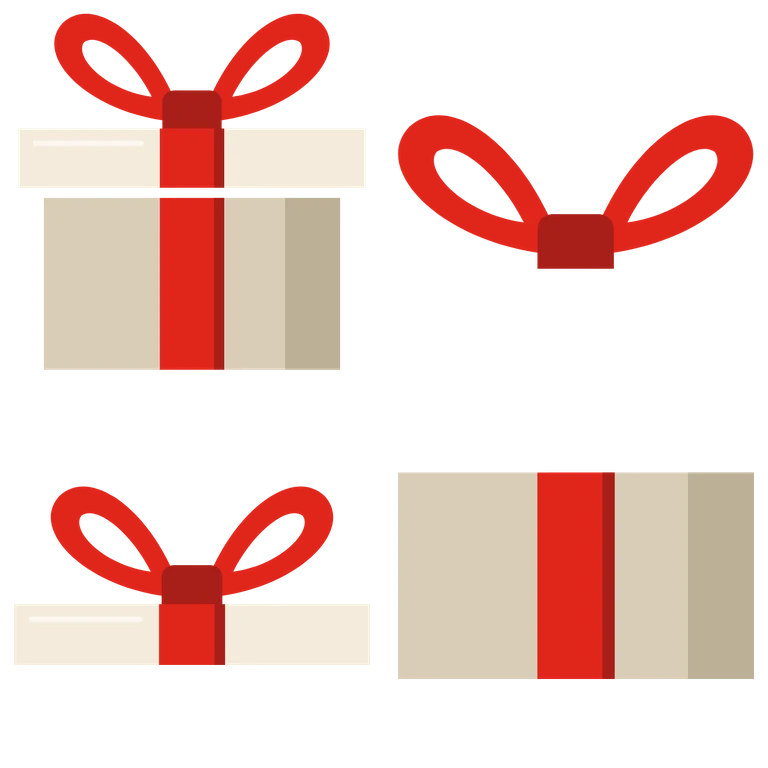
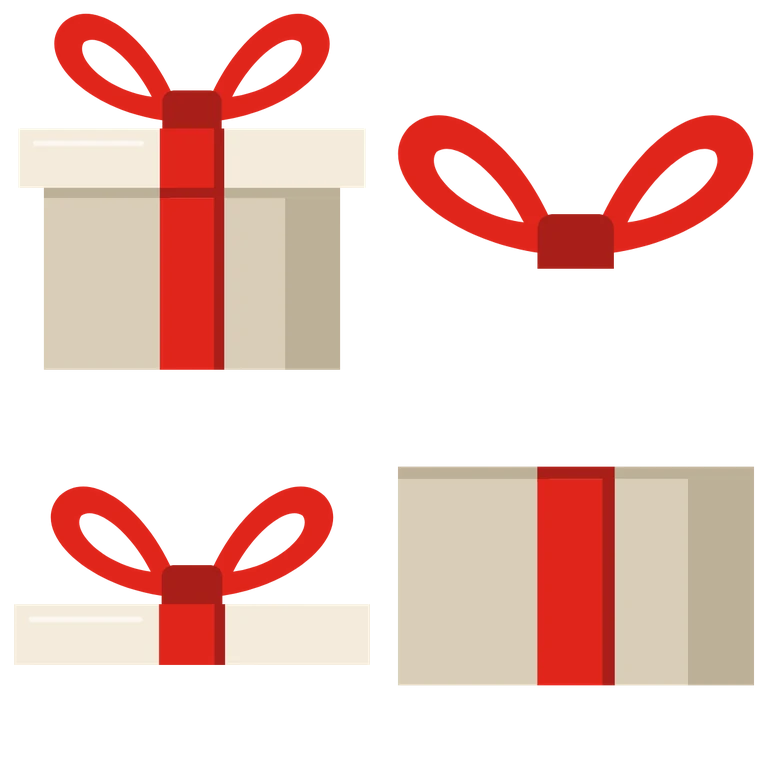
Fixes from the adversarial and design reviews of the audit work
Live pages drop the demo's noindex header. A retry with changed details names
the existing order instead of replaying it. A dead order attempt is finished if
it took stock and cleared if not. The total sent is the one on screen. Rapid taps
never cut a wave. Reload and return from another site keep the scroll place.
Inherited names like /constructor are real 404s. The hero comma stands in front
of the hookahs, small labels keep a thin ember strip, the bag's contents show on
the gilt band, and lid seams are closed on Gifts and Shipping.

Claude-Session: https://claude.ai/code/session_01E9pd4ZHmcwx6MYD1V7M6Jz

Changed region(s): [[0.0625, 0.2188, 0.4375, 0.2812], [0.5, 0.875, 1.0, 0.9062], [0.5, 0.5938, 1.0, 0.625]]

diff --git a/store/public/fx-objects.js b/store/public/fx-objects.js
@@ -10,10 +10,10 @@ export const OBJ = {
  "misc": "<g class=\"mset\"><g transform=\"translate(0 82) scale(1 1.24) translate(0 -82)\"><path class=\"marm\" d=\"M87 47.4 L98.6 42.6 Q103 41 103 45.4 L102.2 57 Q101.6 61.4 98.6 59.4 L98.4 49.2 L88 53 Z\"/><path class=\"steel\" d=\"M5 50 Q5 46 9 46 H84 Q88 46 88 50 V60 Q87 80 73 80 H69 Q56 80 53.6 64 Q50.6 61 47.6 65 Q45 82 30 82 H25 Q7 82 5 62 Z\"/><path class=\"mlens\" d=\"M10 51 H43 V60 Q42.6 78 30 78 H25 Q10.4 78 9.6 62 V52 Z\"/><path class=\"mlens\" d=\"M57.6 51 H84 V60 Q83 76 73 76 H69 Q58 76 57.6 61 Z\"/><path class=\"mlens2\" d=\"M9.6 63 L43 54 V60 Q42.6 78 30 78 H25 Q10.4 78 9.6 63 Z\"/><path class=\"mlens2\" d=\"M57.6 62 L84 55 V60 Q83 76 73 76 H69 Q58 76 57.6 62 Z\"/><path class=\"mglint\" d=\"M61 60 L67 53 H71 L62.6 63 Z\"/><path class=\"mglint\" d=\"M13 60 L20 53 H23 L14.4 63 Z\"/><path class=\"stl\" d=\"M10 48.4 H43 M57.6 48.4 H84\"/><path class=\"mhinge\" d=\"M5.6 49.4 H8.4 V54 H5.6 Z M84.8 49.4 H87.4 V54 H84.8 Z\"/></g><g class=\"mtag\"><g transform=\"translate(27 64) rotate(-8)\"><path class=\"mwhite\" d=\"M-11 -8 H11 Q12.6 -8 12.6 -6.4 V6.4 Q12.6 8 11 8 H-11 Q-12.6 8 -12.6 6.4 V-6.4 Q-12.6 -8 -11 -8 Z\"/><path class=\"mstrip\" d=\"M-11 -8 H11 Q12.6 -8 12.6 -6.4 V-3.6 H-12.6 V-6.4 Q-12.6 -8 -11 -8 Z\"/><path class=\"mdollar\" d=\"M-3.2 -.4 Q-3.4 -1.8 -5.6 -1.8 Q-8 -1.8 -8 .1 Q-8 1.7 -5.6 2 Q-3.2 2.3 -3.2 4 Q-3.2 5.8 -5.6 5.8 Q-7.8 5.8 -8 4.4 M-5.6 -2.8 V6.8\"/><path class=\"mink\" d=\"M-.6 -1.6 H8.6 V1.2 H-.6 Z M-.6 3 H5.4 V5.6 H-.6 Z\"/></g></g></g><g class=\"gun\"><g transform=\"translate(27 57)\"><path class=\"mpaper\" d=\"M-12 -30 L-7.4 -14 L-2.6 -9.6\"/><circle class=\"steel\" cx=\"-12\" cy=\"-38\" r=\"10.6\"/><circle class=\"mroll\" cx=\"-12\" cy=\"-38\" r=\"6.6\"/><circle class=\"mroll\" cx=\"-12\" cy=\"-38\" r=\"2.2\"/><path class=\"steel\" d=\"M9 -51 L38 -67 L44 -55 L9 -32 Z\"/><path class=\"stl\" d=\"M12 -49 L37 -62.6\"/><path class=\"mtrig\" d=\"M9 -29 L24 -38 L26.6 -33.4 L9 -22 Z\"/><path class=\"steel\" d=\"M-9 -51 Q-9 -54 -6 -54 H6 Q9 -54 9 -51 V-14 H-9 Z\"/><path class=\"stl\" d=\"M-5.6 -50 V-18\"/><path class=\"mstrip\" d=\"M-9 -22 H9 V-18 H-9 Z\"/><path class=\"mstrip\" d=\"M0 0 L-6.4 -9 V-15 H6.4 V-9 Z\"/><circle class=\"mink\" cx=\"0\" cy=\"-2.6\" r=\"2.3\"/></g></g>",
  "set": "<g class=\"o c\"><g class=\"crate\"><g class=\"it it0\"><path class=\"sol m-g\" transform=\"translate(9.4 4.8) scale(.56)\" d=\"M27 4 H53 C53 12 47 14 45 20 H43 V25 H60 L57 31 H43 V36 L46 40 L43 44 V58 H37 V44 L34 40 L37 36 V31 H23 L20 25 H37 V20 H35 C33 14 27 12 27 4 Z\"/><path class=\"sol m-gd\" d=\"M30.1 36 H33.5 V56 H30.1 Z\"/></g><g class=\"it it1\"><path class=\"sol m-rd\" transform=\"translate(36 33) scale(.21)\" d=\"M10 20 A40 12 0 0 1 90 20 C90 46 78 60 65 68 C64 76 68 86 71 94 H29 C32 86 36 76 35 68 C22 60 10 46 10 20 Z M17 19 A33 7.5 0 1 0 83 19 A33 7.5 0 1 0 17 19 Z M41 20.5 A9 3 0 1 0 59 20.5 A9 3 0 1 0 41 20.5 Z M44.5 74 H47.5 L47 90 H43 Z M52.5 74 H55.5 L57 90 H53 Z\"/></g><g class=\"it it2\"><path class=\"sol m-st\" transform=\"translate(55.6 38) scale(.2)\" d=\"M7 34 A35 10.5 0 0 1 77 34 V58 C77 68 66 74.5 42 74.5 C18 74.5 7 68 7 58 Z\"/></g><g class=\"it it3\"><path class=\"ink thin\" d=\"M72.6 56 V47 A3.2 3.2 0 0 1 79 47 V56\"/><path class=\"sol m-st\" d=\"M75.6 46 L81.6 46 L80.6 31 L76.6 31 Z\"/><path class=\"sol m-g\" d=\"M77.2 29.2 L80 29.2 L79.4 19 L77.8 19 Z\"/></g><g class=\"flapl\"><path class=\"sol m-kd\" d=\"M12.7 54.8 L-2.3 26.6 L3 23.7 L18 52 Z\"/></g><g class=\"flapr\"><path class=\"sol m-kd\" d=\"M87.3 54.8 L102.3 26.6 L97 23.7 L82 52 Z\"/></g><path class=\"sol m-k\" fill-rule=\"evenodd\" d=\"M18 52 H82 V94 H18 Z M41 63 H59 C61.2 63 63 64.8 63 67 C63 69.2 61.2 71 59 71 H41 C38.8 71 37 69.2 37 67 C37 64.8 38.8 63 41 63 Z\"/><path class=\"m-kd\" d=\"M68 52 H82 V94 H68 Z\"/><path class=\"m-d\" d=\"M41 63 H59 C61.2 63 63 64.8 63 67 C63 69.2 61.2 71 59 71 H41 C38.8 71 37 69.2 37 67 C37 64.8 38.8 63 41 63 Z\"/><path class=\"m-kh\" d=\"M18 52 H82 V55 H18 Z\"/><path class=\"cut tape m-bs\" d=\"M45 45 H55 V60 L52.5 58 L50 60 L47.5 58 L45 60 Z\"/></g></g>",
  "search": "<g class=\"o c\"><g class=\"bell\"><g class=\"plunger\"><path class=\"sol m-st\" d=\"M45 22 H55 C58.3 22 61 24 61 26.5 C61 29 58.3 31 55 31 H45 C41.7 31 39 29 39 26.5 C39 24 41.7 22 45 22 Z\"/><path class=\"sol m-sh\" d=\"M47 30 H53 V48 H47 Z\"/></g><path class=\"sol m-g\" fill-rule=\"evenodd\" d=\"M13 78 C13 56 28 43 50 43 C72 43 87 56 87 78 Z M16.6 68.5 H83.4 L84.2 71.5 H15.8 Z\"/><path class=\"m-gd\" d=\"M64 46 C77 51 86 62 87 78 H73 C73 65 70 54 64 46 Z\"/><path class=\"m-d\" d=\"M16.6 68.5 H83.4 L84.2 71.5 H15.8 Z\"/><path class=\"hl\" d=\"M24 64 C28 56 35 51 43 49\"/></g><path class=\"sol m-gd\" d=\"M45 77 H55 V83 H45 Z\"/><path class=\"sol m-n\" d=\"M8 82 H92 V87 C92 91 89 94 85 94 H15 C11 94 8 91 8 87 Z\"/><path class=\"m-d\" d=\"M8 89 H92 C91.6 92 88.6 94 85 94 H15 C11.4 94 8.4 92 8 89 Z\"/></g>",
- "cart": "<g class=\"o c\"><g class=\"bag\"><g class=\"pk pk0\"><path class=\"sol m-g\" transform=\"translate(11.5 7) scale(.42)\" d=\"M27 4 H53 C53 12 47 14 45 20 H43 V25 H60 L57 31 H43 V36 L46 40 L43 44 V58 H37 V44 L34 40 L37 36 V31 H23 L20 25 H37 V20 H35 C33 14 27 12 27 4 Z\"/><path class=\"sol m-gd\" d=\"M27 30 H29.6 V40 H27 Z\"/></g><g class=\"pk pk1\"><path class=\"sol m-st\" d=\"M66.5 40 L72.5 40 L78.6 16 L74.8 15 Z\"/><path class=\"sol m-g\" d=\"M75.4 12.6 L79.2 13.6 L81.4 5.6 L79.4 5 Z\"/></g><g class=\"pk pk2\"><path class=\"sol m-rd\" d=\"M38 40 L41 25 L45.5 31 L49 21 L53 30 L57.5 24 L61 40 Z\"/></g><path class=\"ink handle\" d=\"M35 37 C35 9 65 9 65 37\"/><path class=\"sol m-n\" d=\"M20 37 L23 33 L26 37 L29 33 L32 37 L35 33 L38 37 L41 33 L44 37 L47 33 L50 37 L53 33 L56 37 L59 33 L62 37 L65 33 L68 37 L71 33 L74 37 L77 33 L80 37 L76 94 H24 Z\"/><path class=\"m-d\" d=\"M67.5 40 L80 37 L76 94 H66 Z\"/><path class=\"cutl\" d=\"M67.5 40 L66 94\"/><g transform=\"rotate(-6 44 66)\"><path class=\"cut m-bn\" d=\"M29 55 H59 V77 H29 Z\"/><path class=\"sol m-r\" d=\"M29 55 H59 V61.5 H29 Z\"/><path class=\"cutl hair\" d=\"M34 58.2 H54\"/></g></g></g>",
+ "cart": "<g class=\"o c\"><g class=\"bag\"><g class=\"pk pk0\"><path class=\"sol m-st\" transform=\"translate(11.5 7) scale(.42)\" d=\"M27 4 H53 C53 12 47 14 45 20 H43 V25 H60 L57 31 H43 V36 L46 40 L43 44 V58 H37 V44 L34 40 L37 36 V31 H23 L20 25 H37 V20 H35 C33 14 27 12 27 4 Z\"/><path class=\"sol m-sh\" d=\"M27 30 H29.6 V40 H27 Z\"/></g><g class=\"pk pk1\"><path class=\"sol m-st\" d=\"M66.5 40 L72.5 40 L78.6 16 L74.8 15 Z\"/><path class=\"sol m-n\" d=\"M75.4 12.6 L79.2 13.6 L81.4 5.6 L79.4 5 Z\"/></g><g class=\"pk pk2\"><path class=\"sol m-rd\" d=\"M38 40 L41 25 L45.5 31 L49 21 L53 30 L57.5 24 L61 40 Z\"/></g><path class=\"ink handle\" d=\"M35 37 C35 9 65 9 65 37\"/><path class=\"sol m-n\" d=\"M20 37 L23 33 L26 37 L29 33 L32 37 L35 33 L38 37 L41 33 L44 37 L47 33 L50 37 L53 33 L56 37 L59 33 L62 37 L65 33 L68 37 L71 33 L74 37 L77 33 L80 37 L76 94 H24 Z\"/><path class=\"m-d\" d=\"M67.5 40 L80 37 L76 94 H66 Z\"/><path class=\"cutl\" d=\"M67.5 40 L66 94\"/><g transform=\"rotate(-6 44 66)\"><path class=\"cut m-bn\" d=\"M29 55 H59 V77 H29 Z\"/><path class=\"sol m-r\" d=\"M29 55 H59 V61.5 H29 Z\"/><path class=\"cutl hair\" d=\"M34 58.2 H54\"/><path class=\"m-n\" d=\"M34 66 H50 V70 H34 Z\"/></g></g></g>",
  "checkout": "<g class=\"o c\"><g class=\"slot\"><g class=\"feed\"><path class=\"sol m-bn\" fill-rule=\"evenodd\" d=\"M32 62 V14 L34.25 10.5 L36.5 14 L38.75 10.5 L41 14 L43.25 10.5 L45.5 14 L47.75 10.5 L50 14 L52.25 10.5 L54.5 14 L56.75 10.5 L59 14 L61.25 10.5 L63.5 14 L65.75 10.5 L68 14 V62 Z M37 20 H51 V23 H37 Z M57 20 H63 V23 H57 Z M37 27.5 H47 V30.5 H37 Z M57 27.5 H63 V30.5 H57 Z M37 35 H53 V38 H37 Z M57 35 H63 V38 H57 Z M37 45 H46 V49.5 H37 Z M53 45 H63 V49.5 H53 Z\"/><path class=\"m-n\" d=\"M37 20 H51 V23 H37 Z M57 20 H63 V23 H57 Z M37 27.5 H47 V30.5 H37 Z M57 27.5 H63 V30.5 H57 Z M37 35 H53 V38 H37 Z M57 35 H63 V38 H57 Z M37 45 H46 V49.5 H37 Z M53 45 H63 V49.5 H53 Z\"/><path class=\"m-bs\" d=\"M62 14 L63.5 14 L65.75 10.5 L68 14 V62 H62 Z\"/></g></g><g class=\"till\"><path class=\"sol m-n\" fill-rule=\"evenodd\" d=\"M14 68 C14 63.5 17.5 60 22 60 H27 V65 H73 V60 H78 C82.5 60 86 63.5 86 68 V94 H14 Z M68 80 A5 5 0 1 0 78 80 A5 5 0 1 0 68 80 Z M22 78.5 H56 V81.5 H22 Z\"/><path class=\"m-d\" d=\"M70 60 H78 C82.5 60 86 63.5 86 68 V94 H70 Z\"/><path class=\"m-g\" d=\"M68 80 A5 5 0 1 0 78 80 A5 5 0 1 0 68 80 Z\"/><path class=\"m-st\" d=\"M22 78.5 H56 V81.5 H22 Z\"/><path class=\"hl thin\" d=\"M19 69 C19 66 20.5 64.5 23 64\"/></g></g>",
- "shipping": "<g class=\"o c\"><g class=\"parcel\"><path class=\"sol m-kh\" d=\"M19 27 H81 L88 39 H12 Z\"/><path class=\"sol m-k\" d=\"M12 42 H88 V94 H12 Z\"/><path class=\"m-kd\" d=\"M74 42 H88 V94 H74 Z\"/><g class=\"tape\"><path class=\"cut m-bs\" d=\"M45.2 27 H54.8 L55.2 39 H44.8 Z\"/><path class=\"cut m-bs\" d=\"M44.8 42 H55.2 V60 L52.6 57.8 L50 60 L47.4 57.8 L44.8 60 Z\"/></g><path class=\"cut m-n\" d=\"M19 62 H35 C35 70 32.5 74.5 28.6 75.6 V83 H33 V86 H21 V83 H25.4 V75.6 C21.5 74.5 19 70 19 62 Z\"/><g class=\"label\"><g transform=\"rotate(4 72 76)\"><path class=\"cut m-w\" d=\"M59 64 H85 V88 H59 Z\"/><path class=\"sol m-n\" d=\"M62 67 H78 V70 H62 Z M62 72.5 H73 V75.5 H62 Z M62 79 H64 V85 H62 Z M65.5 79 H68.5 V85 H65.5 Z M70 79 H71.5 V85 H70 Z M73 79 H76 V85 H73 Z M77.5 79 H79 V85 H77.5 Z M80.5 79 H82 V85 H80.5 Z\"/></g></g></g></g>",
- "gifts": "<g class=\"o c\"><g class=\"top\"><g class=\"bow\"><g class=\"loopl\"><path class=\"sol m-r\" fill-rule=\"evenodd\" d=\"M47 34 C41 17 27 6 19.5 13 C12 21 26 35 47 36.5 Z M40.5 30.5 C36 21.5 28 15 24.5 17.6 C22 21 29.5 29 40.5 30.5 Z\"/></g><g class=\"loopr\"><path class=\"sol m-r\" fill-rule=\"evenodd\" d=\"M53 34 C59 17 73 6 80.5 13 C88 21 74 35 53 36.5 Z M59.5 30.5 C64 21.5 72 15 75.5 17.6 C78 21 70.5 29 59.5 30.5 Z\"/></g><g class=\"knot\"><path class=\"sol m-rd\" d=\"M46 29 H54 C56 29 57 30.2 57 32 V39 H43 V32 C43 30.2 44 29 46 29 Z\"/></g></g><path class=\"sol m-bn\" fill-rule=\"evenodd\" d=\"M9 38 H91 V52 H9 Z M42.4 38 H44.8 V52 H42.4 Z M55.2 38 H57.6 V52 H55.2 Z\"/><path class=\"m-r\" d=\"M42.4 38 H57.6 V52 H42.4 Z\"/><path class=\"m-rd\" d=\"M55.2 38 H57.6 V52 H55.2 Z\"/><path class=\"hl thin\" d=\"M13 41.5 H38\"/></g><g class=\"body\"><path class=\"sol m-bs\" fill-rule=\"evenodd\" d=\"M15 54.4 H85 V95 H15 Z M42.4 54.4 H44.8 V95 H42.4 Z M55.2 54.4 H57.6 V95 H55.2 Z\"/><path class=\"m-r\" d=\"M42.4 54.4 H57.6 V95 H42.4 Z\"/><path class=\"m-rd\" d=\"M55.2 54.4 H57.6 V95 H55.2 Z\"/><path class=\"m-bd\" d=\"M72 54.4 H85 V95 H72 Z\"/></g></g>",
+ "shipping": "<g class=\"o c\"><g class=\"parcel\"><path class=\"m-kd\" d=\"M12 38 H88 V43 H12 Z\"/><path class=\"sol m-kh\" d=\"M19 27 H81 L88 39 H12 Z\"/><path class=\"sol m-k\" d=\"M12 42 H88 V94 H12 Z\"/><path class=\"m-kd\" d=\"M74 42 H88 V94 H74 Z\"/><g class=\"tape\"><path class=\"m-bd\" d=\"M44.8 38.5 H55.2 V42.5 H44.8 Z\"/><path class=\"cut m-bs\" d=\"M45.2 27 H54.8 L55.2 39 H44.8 Z\"/><path class=\"cut m-bs\" d=\"M44.8 42 H55.2 V60 L52.6 57.8 L50 60 L47.4 57.8 L44.8 60 Z\"/></g><path class=\"cut m-n\" d=\"M19 62 H35 C35 70 32.5 74.5 28.6 75.6 V83 H33 V86 H21 V83 H25.4 V75.6 C21.5 74.5 19 70 19 62 Z\"/><g class=\"label\"><g transform=\"rotate(4 72 76)\"><path class=\"cut m-w\" d=\"M59 64 H85 V88 H59 Z\"/><path class=\"sol m-n\" d=\"M62 67 H78 V70 H62 Z M62 72.5 H73 V75.5 H62 Z M62 79 H64 V85 H62 Z M65.5 79 H68.5 V85 H65.5 Z M70 79 H71.5 V85 H70 Z M73 79 H76 V85 H73 Z M77.5 79 H79 V85 H77.5 Z M80.5 79 H82 V85 H80.5 Z\"/></g></g></g></g>",
+ "gifts": "<g class=\"o c\"><g class=\"top\"><g class=\"bow\"><g class=\"loopl\"><path class=\"sol m-r\" fill-rule=\"evenodd\" d=\"M47 34 C41 17 27 6 19.5 13 C12 21 26 35 47 36.5 Z M40.5 30.5 C36 21.5 28 15 24.5 17.6 C22 21 29.5 29 40.5 30.5 Z\"/></g><g class=\"loopr\"><path class=\"sol m-r\" fill-rule=\"evenodd\" d=\"M53 34 C59 17 73 6 80.5 13 C88 21 74 35 53 36.5 Z M59.5 30.5 C64 21.5 72 15 75.5 17.6 C78 21 70.5 29 59.5 30.5 Z\"/></g><g class=\"knot\"><path class=\"sol m-rd\" d=\"M46 29 H54 C56 29 57 30.2 57 32 V39 H43 V32 C43 30.2 44 29 46 29 Z\"/></g></g><path class=\"sol m-bn\" fill-rule=\"evenodd\" d=\"M9 38 H91 V52 H9 Z M42.4 38 H44.8 V52 H42.4 Z M55.2 38 H57.6 V52 H55.2 Z\"/><path class=\"m-r\" d=\"M42.4 38 H57.6 V52 H42.4 Z\"/><path class=\"m-rd\" d=\"M55.2 38 H57.6 V52 H55.2 Z\"/><path class=\"hl thin\" d=\"M13 41.5 H38\"/></g><g class=\"body\"><path class=\"m-bd\" d=\"M15 52 H85 V55 H15 Z\"/><path class=\"m-rd\" d=\"M42.4 52 H57.6 V55 H42.4 Z\"/><path class=\"sol m-bs\" fill-rule=\"evenodd\" d=\"M15 54.4 H85 V95 H15 Z M42.4 54.4 H44.8 V95 H42.4 Z M55.2 54.4 H57.6 V95 H55.2 Z\"/><path class=\"m-r\" d=\"M42.4 54.4 H57.6 V95 H42.4 Z\"/><path class=\"m-rd\" d=\"M55.2 54.4 H57.6 V95 H55.2 Z\"/><path class=\"m-bd\" d=\"M72 54.4 H85 V95 H72 Z\"/></g></g>",
  "terms": "<g class=\"o c\"><g transform=\"rotate(-5 48 50)\"><path class=\"sol m-w m-pe\" fill-rule=\"evenodd\" d=\"M20 7 H60 L74 21 V93 H20 Z M29 27 H56 V30 H29 Z M29 35 H65 V38 H29 Z M29 43 H61 V46 H29 Z M29 51 H50 V54 H29 Z\"/><path class=\"m-n\" d=\"M29 27 H56 V30 H29 Z M29 35 H65 V38 H29 Z M29 43 H61 V46 H29 Z M29 51 H50 V54 H29 Z\"/><path class=\"m-bd\" d=\"M60 7 L74 21 H60 Z\"/><path class=\"cutl\" d=\"M60 8.5 V21 H72.5\"/><path class=\"cut redact m-w\" d=\"M27.5 33 H66.5 V40 H27.5 Z\"/><path class=\"cutl sign m-sn\" pathLength=\"1\" d=\"M29 78 C32 67 38 66 37 74 C36 81 41 81 44 73 C46 67 50 68 48.5 75 C47.5 80 52 79 55 74 L63 71.5\"/><path class=\"cut rule m-n\" d=\"M29 84.5 H65 V86.5 H29 Z\"/><g class=\"pen\"><g transform=\"translate(63 71.5) rotate(-52)\"><path class=\"sol halo m-n\" d=\"M0 0 L9 -3.6 H38 C40.5 -3.6 42 -2 42 0 C42 2 40.5 3.6 38 3.6 H9 Z M27 -3.6 V-6.6 H39 V-3.6 Z\"/></g></g></g></g>",
  "missing": "<g class=\"o c\"><path class=\"sol m-st\" fill-rule=\"evenodd\" d=\"M12 6 H20 C22 6 23 7 23 9 V43 C23 45 22 46 20 46 H12 C10 46 9 45 9 43 V9 C9 7 10 6 12 6 Z M13.6 14 A2.4 2.4 0 1 0 18.4 14 A2.4 2.4 0 1 0 13.6 14 Z M13.6 38 A2.4 2.4 0 1 0 18.4 38 A2.4 2.4 0 1 0 13.6 38 Z\"/><g class=\"prong\"><path class=\"ink\" d=\"M23 26 H78 C85 26 88 22 88 14\"/></g><g class=\"swing\"><path class=\"ink thin\" d=\"M56 25 V47\"/><g class=\"tag\"><path class=\"sol m-bn\" fill-rule=\"evenodd\" d=\"M56 43 L72 55 V91 H40 V55 Z M52.8 55 A3.2 3.2 0 1 0 59.2 55 A3.2 3.2 0 1 0 52.8 55 Z M46 68 H66 V71.5 H46 Z M46 77 H58 V80.5 H46 Z\"/><path class=\"m-n\" d=\"M46 68 H66 V71.5 H46 Z M46 77 H58 V80.5 H46 Z\"/><path class=\"m-r\" d=\"M56 43 L72 55 V59 L56 47 L40 59 V55 Z\"/></g></g></g>",
  "all": "<g class=\"o c\"><g class=\"p0\"><g transform=\"translate(-7.6 3.5) scale(.69)\"><path class=\"sol m-g\" d=\"M27 4 H53 C53 12 47 14 45 20 H43 V25 H60 L57 31 H43 V36 L46 40 L43 44 V58 H37 V44 L34 40 L37 36 V31 H23 L20 25 H37 V20 H35 C33 14 27 12 27 4 Z\"/><path class=\"sol m-gd\" d=\"M33 61 H47 V66 C47 76 62 78 62 86 C62 90 58 94 53 94 H27 C22 94 18 90 18 86 C18 78 33 76 33 66 Z\"/></g></g><g class=\"p1\"><g transform=\"translate(32 27.1) scale(.44)\"><path class=\"sol m-st\" d=\"M36 6 H64 V12 H36 Z\"/><path class=\"sol m-rd\" d=\"M40 15 H60 V40 C60 58 88 62 88 78 C88 88 80 94 70 94 H30 C20 94 12 88 12 78 C12 62 40 58 40 40 Z\"/></g></g><g class=\"p2\"><g transform=\"translate(64.5 29) scale(.42)\"><path class=\"sol m-n\" fill-rule=\"evenodd\" d=\"M23 42 L27 38 H73 L77 42 V94 H23 Z M31 52 H69 V82 H31 Z M34 55 H66 V79 H34 Z\"/><path class=\"sol m-g\" d=\"M37 29 H63 V35 H37 Z\"/><path class=\"sol m-gd\" d=\"M45 20 H55 V29 H45 Z\"/><path class=\"sol m-st\" d=\"M41 9 H59 V22 H41 V17 H37 V13 H41 Z\"/></g></g><g class=\"plank\"><path class=\"sol m-k\" d=\"M3 71 H97 V78 H3 Z\"/><path class=\"m-kh\" d=\"M3 71 H97 V73 H3 Z\"/><path class=\"sol m-kd\" d=\"M12 81 H29 L12 94 Z\"/><path class=\"sol m-kd\" d=\"M88 81 H71 L88 94 Z\"/></g></g>"

diff --git a/store/public/app.js b/store/public/app.js
@@ -128,6 +128,7 @@ function viewHome() {
       <div class="hero__slabs" aria-hidden="true">${stars.map((p, i) => `<span data-tone="${SLABS[i]}"></span>`).join("")}</div>
       <p class="hero__word" aria-hidden="true">Hookahs,</p>
       <div class="hero__pieces">${stars.map((p, i) => `<a class="piece" href="/p/${p.sku}" style="--cm:${p.height};--i:${i}" aria-label="${esc(p.name)}, ${whole(p.price)}">${shot(p, { eager: i < 3, use: "slab" })}${sticker(p)}</a>`).join("")}</div>
+      <p class="hero__word hero__word--comma" aria-hidden="true"><span>Hookahs</span>,</p>
     </div>
     <div class="hero__in">
       <h1 class="hero__h"><span class="hero__lead">Hookahs,</span> <span class="hero__rest">and everything that goes with them.</span></h1>
@@ -580,7 +581,7 @@ function shownTotals(lines, sc) {
 }
 function coTotals(lines, sc) {
   const { pickup, local } = sc, t = shownTotals(lines, sc), units = lines.reduce((a, l) => a + l.qty, 0);
-  return `<dl class="totals">
+  return `<dl class="totals" data-total="${t.total}">
         <div><dt>${units} ${units === 1 ? "item" : "items"}</dt><dd class="num">${money(t.subtotal / 100)}</dd></div>
         <div><dt>${pickup ? "Pickup" : local ? "Delivery" : "Shipping"}</dt><dd class="num">${pickup ? "Free" : local ? (t.fee === null ? "Enter your address" : feeText(t.shipping / 100)) : money(t.shipping / 100)}</dd></div>
         <div><dt>${taxLabel(t.prov)}</dt><dd class="num">${money(t.tax / 100)}</dd></div>
@@ -688,9 +689,9 @@ document.addEventListener("submit", async e => {
     if (deliveryFeeNow() === null) return checkDelivery(f, btn);   // show the price first: the next tap places the order
   }
   btn.disabled = true; btn.textContent = "Placing your order"; err.hidden = true;
-  const sent = cartLines(), sig = orderSig(sent, sc), shown = shownTotals(sent, sc);
+  const sent = cartLines(), sig = orderSig(sent, sc), shownTotal = +f.querySelector(".totals").dataset.total;   // the figure on the screen, not a fresh sum: if the rate moved since, the server says so
   try {
-    const r = await fetch("/api/orders", { method: "POST", headers: { "Content-Type": "application/json" }, body: JSON.stringify({ order_key: orderKey(sig + v("email").toLowerCase()), expected_total_cents: shown.total, lines: state.cart, method: pickup ? "pickup" : "ship", service: local ? "local" : chosen && chosen.id, delivery_fee_cents: local ? Math.round(deliveryFeeNow() * 100) : undefined, postal: state.dest && state.dest.full,
+    const r = await fetch("/api/orders", { method: "POST", headers: { "Content-Type": "application/json" }, body: JSON.stringify({ order_key: orderKey(sig + v("email").toLowerCase()), expected_total_cents: shownTotal, lines: state.cart, method: pickup ? "pickup" : "ship", service: local ? "local" : chosen && chosen.id, delivery_fee_cents: local ? Math.round(deliveryFeeNow() * 100) : undefined, postal: state.dest && state.dest.full,
       name: v("name"), email: v("email"), phone: v("phone"), note: state.note, address: { line1: v("line1"), city: v("city") } }) });
     const data = await r.json().catch(() => ({}));
     if (!r.ok) { btn.disabled = false; btn.textContent = "Place order"; if (local && data.delivery) { if (data.delivery === "far") state.farFor = state.dest.full; state.delivery = data.delivery === "ok" ? { key: deliveryKey(), fee_cents: data.base_fee_cents ?? data.fee_cents, due: data.fee_cents, sub: cartCents() } : null; state.refused = data.delivery === "ok" ? null : deliveryKey(); refreshDelivery(f, data.delivery === "ok" ? undefined : deliveryMsg(data.delivery)); if (data.delivery !== "ok") return; } 
@@ -732,7 +733,7 @@ function realPage(a, b, more) {
   if (more) return false; if (!a) return true;
   if (a === "shop") return !b || !!catById[b]; if (a === "p") return !!b; if (a === "gifts") return !b || b === "under-50" || b === "under-150";
   if (a === "order") return !!b && /^W[A-Z0-9]{6}$/.test(b);
-  return !b && a in PLAIN;
+  return !b && Object.hasOwn(PLAIN, a);
 }
 function pageTitle(a, b, real) {
   if (!real || (a === "p" && !bySku[b])) return `Page not found | ${SITE}`; if (!a) return HOME_TITLE;
@@ -741,7 +742,7 @@ function pageTitle(a, b, real) {
 }
 function render() {
   const keep = focusKey(document.activeElement);
-  const [a, b, more] = route().replace(/^#\/?/, "").split("/"), real = realPage(a, b, more);
+  const [a, b, more] = route().replace(/^#\/?/, "").split("/").filter(Boolean), real = realPage(a, b, more);
   if (a === "search") state.q = new URLSearchParams(location.search).get("q") ?? state.q;
   document.title = pageTitle(a, b, real);
   $("#main").innerHTML = !real ? viewMissing() : a === "shop" ? viewShop(b) : a === "p" ? viewProduct(b) : a === "cart" ? viewCart() : a === "shipping" ? viewShipping() : a === "gifts" ? viewGifts(b) : a === "set" ? viewSet() : a === "search" ? viewSearch() : a === "privacy" ? viewPrivacy() : a === "terms" ? viewTerms() : a === "checkout" ? viewCheckout() : a === "order" ? viewOrder(b) : !a ? viewHome() : viewMissing();
@@ -793,3 +794,4 @@ window.addEventListener("routechange", () => {
   if (!navInfo().instant && document.startViewTransition && !matchMedia("(prefers-reduced-motion: reduce)").matches) document.startViewTransition(go); else go();   // a wave is already covering the change
 });
 render();
+if (spotHere()) putScroll(spotHere());   // a reload, or Back from another site, lands where you were

diff --git a/store/src/checkout.js b/store/src/checkout.js
@@ -24,8 +24,15 @@ async function findKeyed(db, key, sameOrder) {
     if (!row) return { id, idem };
     const q = parsed(row.ship_quote);
     if (q.idem !== idem) continue;   // another order happens to hold this code: try the next one
-    if (q.idem_req !== sameOrder) return { changed: true };
-    if (row.status === "pending") { if (Date.now() - Date.parse(row.created_at) < OPEN_MS) return { open: true }; continue; }
+    if (q.idem_req !== sameOrder) return { changed: true, id };
+    if (row.status === "pending") {
+      if (Date.now() - Date.parse(row.created_at + (row.created_at.endsWith("Z") ? "" : "Z")) < OPEN_MS) return { open: true };
+      // the attempt died part way. If it took the stock, it is a real order: finish it. If not, clear it and place it fresh.
+      const sold = await db.prepare("SELECT COUNT(*) AS n FROM stock_moves WHERE ref = ? AND reason = 'sale'").bind(id).first("n");
+      if (sold) { await db.prepare("UPDATE orders SET status = 'paid', updated_at = strftime('%Y-%m-%dT%H:%M:%SZ','now') WHERE id = ? AND status = 'pending'").bind(id).run(); return { row: { ...row, status: "paid" } }; }
+      await db.batch([db.prepare("DELETE FROM order_items WHERE order_id = ?").bind(id), db.prepare("DELETE FROM orders WHERE id = ? AND status = 'pending'").bind(id)]);
+      return { id, idem };
+    }
     return { row };
   }
   return { id: code(), idem };
@@ -63,11 +70,11 @@ export async function placeOrder(request, env, url) {
   let keyed = null, sameOrder = null;
   if (key) {
     const postal = rates.parsePostal(body.postal)?.full || "";
-    sameOrder = await sha(JSON.stringify([[...want].map(([s, q]) => [s, q]).sort(), method, method === "ship" ? String(body.service || "") : "", method === "ship" ? postal : "", email.toLowerCase()]));
+    sameOrder = await sha(JSON.stringify([[...want].map(([s, q]) => [s, q]).sort(), method, method === "ship" ? String(body.service || "") : "", method === "ship" ? postal : "", email.toLowerCase(), name, phone || "", note || "", ...(method === "ship" ? [String(body.address?.line1 || "").trim().toLowerCase(), String(body.address?.city || "").trim().toLowerCase()] : [])]));
     keyed = await findKeyed(db, key, sameOrder);
     for (let i = 0; keyed.open && i < 3; i++) { await wait(300); keyed = await findKeyed(db, key, sameOrder); }
     if (keyed.open) return stillOpen();
-    if (keyed.changed) return json({ error: "This order changed while it was being placed. Check it, then place it again.", in_progress: false }, 409);
+    if (keyed.changed) return json({ error: `We already have this as order ${keyed.id}. To change its details, call the counter at 519-255-2222.`, existing_order: keyed.id }, 409);
     if (keyed.row) return replay(db, keyed.row);
   }
   // a brake, so nobody can flood the shop with orders

diff --git a/store/public/fx-wave.js b/store/public/fx-wave.js
@@ -278,6 +278,7 @@ setNavGate({
     if (w) { // a tap during a wave replaces it, with one history entry; what it replaced never lands
       if (w.path === path) return true;
       const next = replace ? null : waveFor(path); if (!next) { drop(true); return false; }   // back to the page still showing: this band finishes its pass over it
+      if (tooFast(performance.now())) { undo?.(); undo = null; w.path = path; underline(path); return true; }   // too many in a second: this band carries the new page instead of a third one starting
       const under = keeper(); drop(true); clearTimers(); w = null; if (raf) cancelAnimationFrame(raf); raf = 0;   // the new tap plays its own wave over this one, so nothing pops off
       if (play(next, path, under)) return true; hide(); return false;
     }
@@ -285,7 +286,7 @@ setNavGate({
     return true;
   },
   same() {   // a tap back to the page still showing, under a wave heading elsewhere: that page gets its own wave too
-    if (!w?.path) return; const p = location.pathname + location.search, k = sectionOf(p); if (w.path === p) return; if (k === "search" || !W[k] || RM.matches || saveData() || document.hidden || broken) { drop(true); return; }
+    if (!w?.path) return; const p = location.pathname + location.search, k = sectionOf(p); if (w.path === p) return; if (k === "search" || !W[k] || RM.matches || saveData() || document.hidden || broken || tooFast(performance.now())) { drop(true); return; }
     const under = keeper(); drop(true); clearTimers(); w = null; if (raf) cancelAnimationFrame(raf); raf = 0; if (!play(k, p, under)) hide();
   },
   pop() { drop(false); },

diff --git a/store/public/styles.css b/store/public/styles.css
@@ -790,6 +790,15 @@ html.restoring .grid--shop .card{content-visibility:visible}
 /* 28 the hero word's comma stands inside its band, and on a phone the small label keeps clear of the bowl */
 @media (min-width:960px){.hero__word{bottom:.15em}}
 @media (max-width:959px){.piece .sticker{font-size:.92rem;top:var(--s-2);right:var(--s-1)}}
+/* the comma is the one piece of the word that stands in front of the hookahs, so it always reads as a comma */
+.hero__word--comma{pointer-events:none}
+.hero__word--comma span{visibility:hidden}
+/* a label too small for the shop's name keeps a thin ember strip instead of an empty band */
+.sticker:not(.sticker--big){padding-top:.52em}
+.sticker:not(.sticker--big)::before{height:1.25em}
+.sticker:not(.sticker--big)::after{top:.46em}
+@media (min-width:640px){.grid .sticker:not(.sticker--big){padding-top:1.06em} .grid .sticker:not(.sticker--big)::before{height:3em} .grid .sticker:not(.sticker--big)::after{top:1.02em}}
+@media (min-width:960px){.piece .sticker:not(.sticker--big){padding-top:1.06em} .piece .sticker:not(.sticker--big)::before{height:3em} .piece .sticker:not(.sticker--big)::after{top:1.02em}}
 /* the cart says plainly when the shelf changed what it holds: a word and a mark, in the reading order */
 .cartnews{margin:0 0 var(--s-4);font-size:var(--t-14);color:var(--color-strong);font-weight:500}
 .cartnews p{margin:0;padding:var(--s-3) 0;border-top:1px solid var(--color-line)}

diff --git a/store/src/worker.js b/store/src/worker.js
@@ -36,7 +36,7 @@ function describe(path, cat, site) {
   if (a === "gifts" && b && b !== "under-50" && b !== "under-150") return null;
   if (b && a !== "gifts") return null;
   const fixed = { privacy: "Privacy", terms: "Terms of sale", checkout: "Checkout", cart: "Cart", shipping: "Shipping and returns", set: "Build a set", search: "Search", gifts: "Gifts" };
-  if (!fixed[a]) return null;
+  if (!Object.hasOwn(fixed, a)) return null;
   return { ...base, title: `${fixed[a]} | ${site}`, index: ["shipping", "set", "privacy", "terms"].includes(a) };
 }
 
@@ -74,7 +74,7 @@ async function page(request, env, url, ctx) {
   for (const [k, v] of Object.entries(SECURITY)) headers.set(k, v);
   headers.set("Content-Type", "text/html; charset=utf-8");
   headers.set("Cache-Control", "no-cache");
-  if (!(live && meta.index)) headers.set("X-Robots-Tag", "noindex, nofollow");
+  if (!(live && meta.index)) headers.set("X-Robots-Tag", "noindex, nofollow"); else headers.delete("X-Robots-Tag");   // _headers marks everything noindex for the demo; a live, indexable page must drop it
   return new Response(out.body, { status: d ? 200 : 404, headers });
 }
 const esc = s => String(s).replace(/&/g, "&amp;").replace(/"/g, "&quot;").replace(/</g, "&lt;");

diff --git a/store/public/fx-wave-art.js b/store/public/fx-wave-art.js
@@ -4,11 +4,11 @@ export const ART = {
  "kit-all.webp": "94fff8ad25",
  "kit-bowls.webp": "20cecdc5b1",
  "kit-cart.webp": "8c7abace74",
- "kit-gifts.webp": "dc3300d543",
+ "kit-gifts.webp": "34c29b9b92",
  "kit-misc.webp": "b5ddf0d40a",
  "kit-search.webp": "e2acede93f",
  "kit-set.webp": "f68a8e78e2",
- "kit-shipping.webp": "e47bf8373c",
+ "kit-shipping.webp": "cdc096cf8a",
  "parts.webp": "6e6b5d6934",
  "smoke.webp": "14509ba490"
 };
